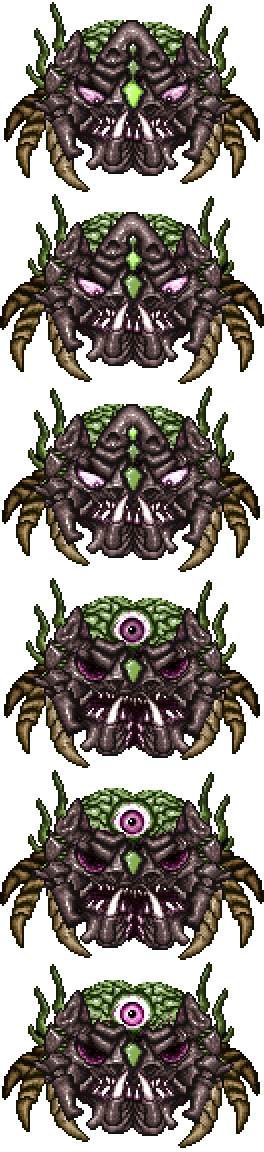
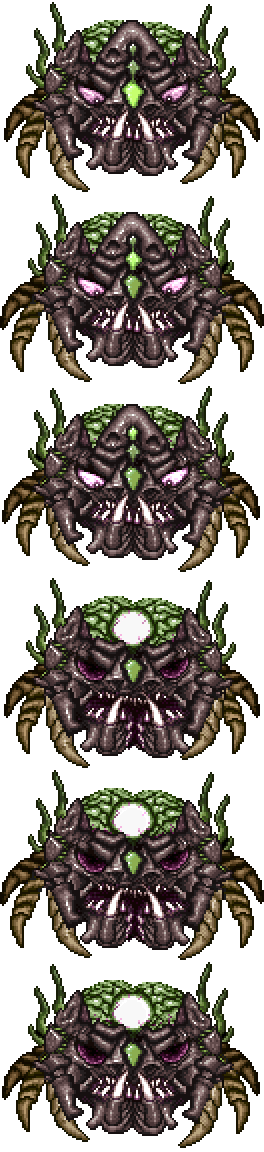
ocram visuals 1.98745893475

Changed region(s): [[0.4545, 0.6875, 0.5455, 0.75], [0.4545, 0.8438, 0.5455, 0.9062], [0.4545, 0.5312, 0.5455, 0.5625]]

diff --git a/Content/NPCs/Ocram/Ocram.cs b/Content/NPCs/Ocram/Ocram.cs
@@ -27,6 +27,9 @@ namespace Consolaria.Content.NPCs.Ocram {
         private const float MissileAngleSpread = 150;
         private bool effect = false;
         private float rad = (float)Math.PI * 2f;
+        private bool showeye = false;
+        private Vector2 oldocrampos;
+        private float glowopacity;
 
         public override void SetStaticDefaults () {
             DisplayName.SetDefault("Ocram");
@@ -229,6 +232,7 @@ namespace Consolaria.Content.NPCs.Ocram {
                             if (NPC.ai [2] < 360) { // laser spam
                                 if (!Main.player [NPC.target].dead) {
                                     NPC.ai [3] += 1f;
+                                    glowopacity += 0.015f;
                                 }
                                 if (NPC.ai [3] >= 60 && NPC.ai [3] <= 70) {
                                     float Speed = 8f;
@@ -240,6 +244,9 @@ namespace Consolaria.Content.NPCs.Ocram {
                                         NPC.ai [3] = 0;
                                     }
 
+                                    if (glowopacity > 0) glowopacity -= 0.15f;
+                                    if (glowopacity < 0) glowopacity = 0;
+
                                     if (NPC.ai [3] % 2 == 0) {
                                         int index3 = Dust.NewDust(NPC.Center, 0, 0, DustID.LavaMoss, 0f, 0f, 100, new Color(255, 0, 244), Main.rand.NextFloat(0.8f, 2f));
                                         Main.dust [index3].noGravity = true;
@@ -247,8 +254,6 @@ namespace Consolaria.Content.NPCs.Ocram {
                                         Main.dust [index3].fadeIn = Main.rand.NextFloat(0, 1f);
                                     }
                                 }
-
-                                NPC.ai[2] = 0; //will repeat this attack infinitely for testing
                             }
                             if (NPC.ai [2] > 360 && NPC.ai [2] <= 520) { //stationary laser barrage preparation
                                 if (!Main.player [NPC.target].dead) {
@@ -266,6 +271,9 @@ namespace Consolaria.Content.NPCs.Ocram {
                                         Main.dust [index2].velocity = Vector2.Normalize(vector2_4) * -3f;
                                     }
                                 }
+
+                                if (NPC.ai[2] >= 380 && NPC.ai[2] <= 420) glowopacity += 0.15f;
+                                if (glowopacity > 1) glowopacity = 1;
 
                                 if (NPC.ai [2] > 420 && NPC.ai [2] <= 480) { //stationary laser barrage
                                      NPC.velocity *= 0.9f;
@@ -285,6 +293,9 @@ namespace Consolaria.Content.NPCs.Ocram {
                                         Main.dust [index3].noGravity = true;
                                         Main.dust [index3].fadeIn = Main.rand.NextFloat(0, 1f);
                                     }
+
+                                    if (glowopacity > 0) glowopacity -= 0.02f;
+                                    if (glowopacity < 0) glowopacity = 0;
                                 }
 
                                 if (NPC.ai [2] > 480 && NPC.ai [2] <= 500) {
@@ -449,7 +460,7 @@ namespace Consolaria.Content.NPCs.Ocram {
                                 NPC.ai [2] = 0f;
                             }
                             else {
-
+                                showeye = true;
                                 SoundEngine.PlaySound(SoundID.NPCHit1, NPC.position);
                                 if (Main.netMode != NetmodeID.Server) {
 
@@ -539,17 +550,12 @@ namespace Consolaria.Content.NPCs.Ocram {
                                         }
                                         if (NPC.localAI [1] > 8f) {
                                             NPC.localAI [1] = 0f;
-                                            int num362 = 1;
-                                            int zalupa = Main.rand.Next(-80, 80);
-                                            float num363 = Main.player [NPC.target].position.X + (float) (Main.player [NPC.target].width / 2) - (float) (num362 * 70) - vector38.X;
+                                            float num363 = Main.player [NPC.target].position.X + (float) (Main.player [NPC.target].width / 2) - vector38.X - 70;
                                             float num364 = Main.player [NPC.target].position.Y + (float) (Main.player [NPC.target].height / 2) - vector38.Y;
-                                            float num365 = (float) Math.Sqrt((double) (num363 * num363 + num364 * num364));
                                             vector38 = new Vector2(NPC.position.X + (float) NPC.width * 0.5f, NPC.position.Y + (float) NPC.height * 0.5f);
-                                            num363 = Main.player [NPC.target].position.X + (float) (Main.player [NPC.target].width / 2) - zalupa - vector38.X;
-                                            num364 = Main.player [NPC.target].position.Y + (float) (Main.player [NPC.target].height / 2) - zalupa - vector38.Y;
-                                            float num366 = 10f;
-                                            num365 = (float) Math.Sqrt((double) (num363 * num363 + num364 * num364));
-                                            num365 = num366 / num365;
+                                            num363 -= Main.rand.Next(-80, 80) - 70;
+                                            num364 -= Main.rand.Next(-80, 80);
+                                            float num365 = 10 / (float) Math.Sqrt((double) (num363 * num363 + num364 * num364));
                                             num363 *= num365;
                                             num364 *= num365;
                                             num363 += (float) Main.rand.Next(-30, 31) * 0.05f;
@@ -557,6 +563,7 @@ namespace Consolaria.Content.NPCs.Ocram {
                                             vector38.X += num363 * 3f;
                                             vector38.Y += num364 * 3f;
                                             Vector2 vector8 = new Vector2(NPC.position.X + (NPC.width / 2), NPC.position.Y + (NPC.height / 2));
+                                            vector8 += new Vector2(0, -30).RotatedBy(NPC.rotation);
                                             SoundEngine.PlaySound(SoundID.Item33, NPC.position);
                                             float rotation = (float) Math.Atan2(vector8.Y - (Main.player [NPC.target].position.Y + (Main.player [NPC.target].height * 0.5f)), vector8.X - (Main.player [NPC.target].position.X + (Main.player [NPC.target].width * 0.5f)));
                                             Projectile.NewProjectile(NPC.GetSource_FromAI(), vector8.X, vector8.Y, num363, num364, ModContent.ProjectileType<OcramLaser2>(), NPC.damage * 2, 0f, 0);
@@ -691,8 +698,9 @@ namespace Consolaria.Content.NPCs.Ocram {
             Texture2D texture = (Texture2D) ModContent.Request<Texture2D>("Consolaria/Assets/Textures/NPCs/Ocram");
             SpriteEffects effects = (NPC.spriteDirection == -1) ? SpriteEffects.None : SpriteEffects.FlipHorizontally;
             Vector2 origin = new((float) (texture.Width / 2), (float) (texture.Height / Main.npcFrameCount [NPC.type] / 2));
+            Vector2 ocrampos = new Vector2(NPC.position.X - Main.screenPosition.X + (float)(NPC.width / 2) - (float)texture.Width * NPC.scale / 2f + origin.X * NPC.scale, NPC.position.Y - Main.screenPosition.Y + (float)NPC.height - (float)texture.Height * NPC.scale / (float)Main.npcFrameCount[NPC.type] + 4f + origin.Y * NPC.scale);
             if (effect) {
-                Main.spriteBatch.Draw(texture, new Vector2(NPC.position.X - Main.screenPosition.X + (float) (NPC.width / 2) - (float) texture.Width * NPC.scale / 2f + origin.X * NPC.scale, NPC.position.Y - Main.screenPosition.Y + (float) NPC.height - (float) texture.Height * NPC.scale / (float) Main.npcFrameCount [NPC.type] + 4f + origin.Y * NPC.scale), new Rectangle?(NPC.frame), Color.White, NPC.rotation, origin, NPC.scale, effects, 0f);
+                Main.spriteBatch.Draw(texture, ocrampos, new Rectangle?(NPC.frame), Color.White, NPC.rotation, origin, NPC.scale, effects, 0f);
                 for (int i = 1; i < NPC.oldPos.Length; i++) {
                     Color color = Lighting.GetColor((int) ((double) NPC.position.X + (double) NPC.width * 0.5) / 16, (int) (((double) NPC.position.Y + (double) NPC.height * 0.5) / 16.0));
                     Color color2 = color;
@@ -700,11 +708,41 @@ namespace Consolaria.Content.NPCs.Ocram {
                     else color2 = Color.BlueViolet;
                     color2 = NPC.GetAlpha(color2);
                     color2 *= (NPC.oldPos.Length - i) / 15f;
-                    Main.spriteBatch.Draw(texture, new Vector2(NPC.position.X - Main.screenPosition.X + (float) (NPC.width / 2) - (float) texture.Width * NPC.scale / 2f + origin.X * NPC.scale, NPC.position.Y - Main.screenPosition.Y + (float) NPC.height - (float) texture.Height * NPC.scale / (float) Main.npcFrameCount [NPC.type] + 4f + origin.Y * NPC.scale) - NPC.velocity * (float) i * 0.5f, new Rectangle?(NPC.frame), color2, NPC.rotation, origin, NPC.scale, effects, 0f);
+                    Main.spriteBatch.Draw(texture, ocrampos - NPC.velocity * (float)i * 0.5f, new Rectangle?(NPC.frame), color2, NPC.rotation, origin, NPC.scale, effects, 0f);
                 }
             }
-            //drawColor = new Color(200, 200, 200, 255);
             return true;
+        }
+
+        public override void PostDraw(SpriteBatch spriteBatch, Vector2 screenPos, Color drawColor)
+        {
+            Texture2D eye = (Texture2D)ModContent.Request<Texture2D>("Consolaria/Assets/Textures/NPCs/OcramEye");
+            Texture2D glow = (Texture2D)ModContent.Request<Texture2D>("Consolaria/Assets/Textures/NPCs/OcramGlow");
+            Texture2D eyeglow = (Texture2D)ModContent.Request<Texture2D>("Consolaria/Assets/Textures/NPCs/OcramEyeGlow");
+
+            Vector2 origin = new((float)(eye.Width / 2), (float)(eye.Height / 2));
+            Vector2 ocrampos = NPC.Center - Main.screenPosition;
+
+            if (showeye) {
+                float eyerotation = (float)Math.Atan2(NPC.Center.Y - (Main.player[NPC.target].position.Y + (Main.player[NPC.target].height * 0.5f)), NPC.Center.X - (Main.player[NPC.target].position.X + (Main.player[NPC.target].width * 0.5f)));
+                Vector2 toplayer = NPC.Center - Main.player[NPC.target].Center;
+                float playerdistance = (float)Math.Sqrt(toplayer.X * toplayer.X + toplayer.Y * toplayer.Y);
+                ocrampos -= new Vector2(Math.Min(500, playerdistance), 0).RotatedBy(eyerotation) / 120;
+                Main.spriteBatch.Draw(eye, (ocrampos + oldocrampos) / 2, null, drawColor, NPC.rotation, origin, NPC.scale, SpriteEffects.None, 0f);
+
+                if (NPC.ai[2] <= 200f && NPC.ai[1] == 0f)
+                {
+                    float blink = (float)Math.Sin(NPC.ai[2] / 4) / 2 + 0.5f;
+                    drawColor = new Color(1f - blink, 0.5f * blink, 2.5f * blink, 0);
+                    Main.spriteBatch.Draw(eyeglow, (ocrampos + oldocrampos) / 2, null, drawColor, NPC.rotation, origin, NPC.scale, SpriteEffects.None, 0f);
+                }
+
+                oldocrampos = ocrampos;
+            }
+            else {
+                drawColor = new Color(1 * glowopacity, 0, 0, 0);
+                Main.spriteBatch.Draw(glow, ocrampos, null, drawColor, NPC.rotation, origin, NPC.scale, SpriteEffects.None, 0f);
+            }
         }
 
         public override void HitEffect (int hitDirection, double damage) {

diff --git a/Content/NPCs/Ocram/ServantofOcram.cs b/Content/NPCs/Ocram/ServantofOcram.cs
@@ -81,7 +81,7 @@ namespace Consolaria.Content.NPCs.Ocram {
             for (int i = 0; i < 3; i++)
                 Dust.NewDust(NPC.position, NPC.width, NPC.height, DustID.Shadowflame, hitDirection, -1f, 0, default, 1f);
             if (NPC.life <= 0) {
-                Gore.NewGore(NPC.GetSource_Death(), NPC.position, Vector2.Zero, ModContent.Find<ModGore>("Consolaria/Servant_Gore").Type, 0.75f);
+                Gore.NewGore(NPC.GetSource_Death(), NPC.position, NPC.velocity * 0.75f, ModContent.Find<ModGore>("Consolaria/Servant_Gore").Type, 0.75f);
                 for (int j = 0; j < 12; j++)
                     Dust.NewDust(NPC.position, NPC.width, NPC.height, DustID.Shadowflame, hitDirection, -1f, 0, default, 1f);
             }
